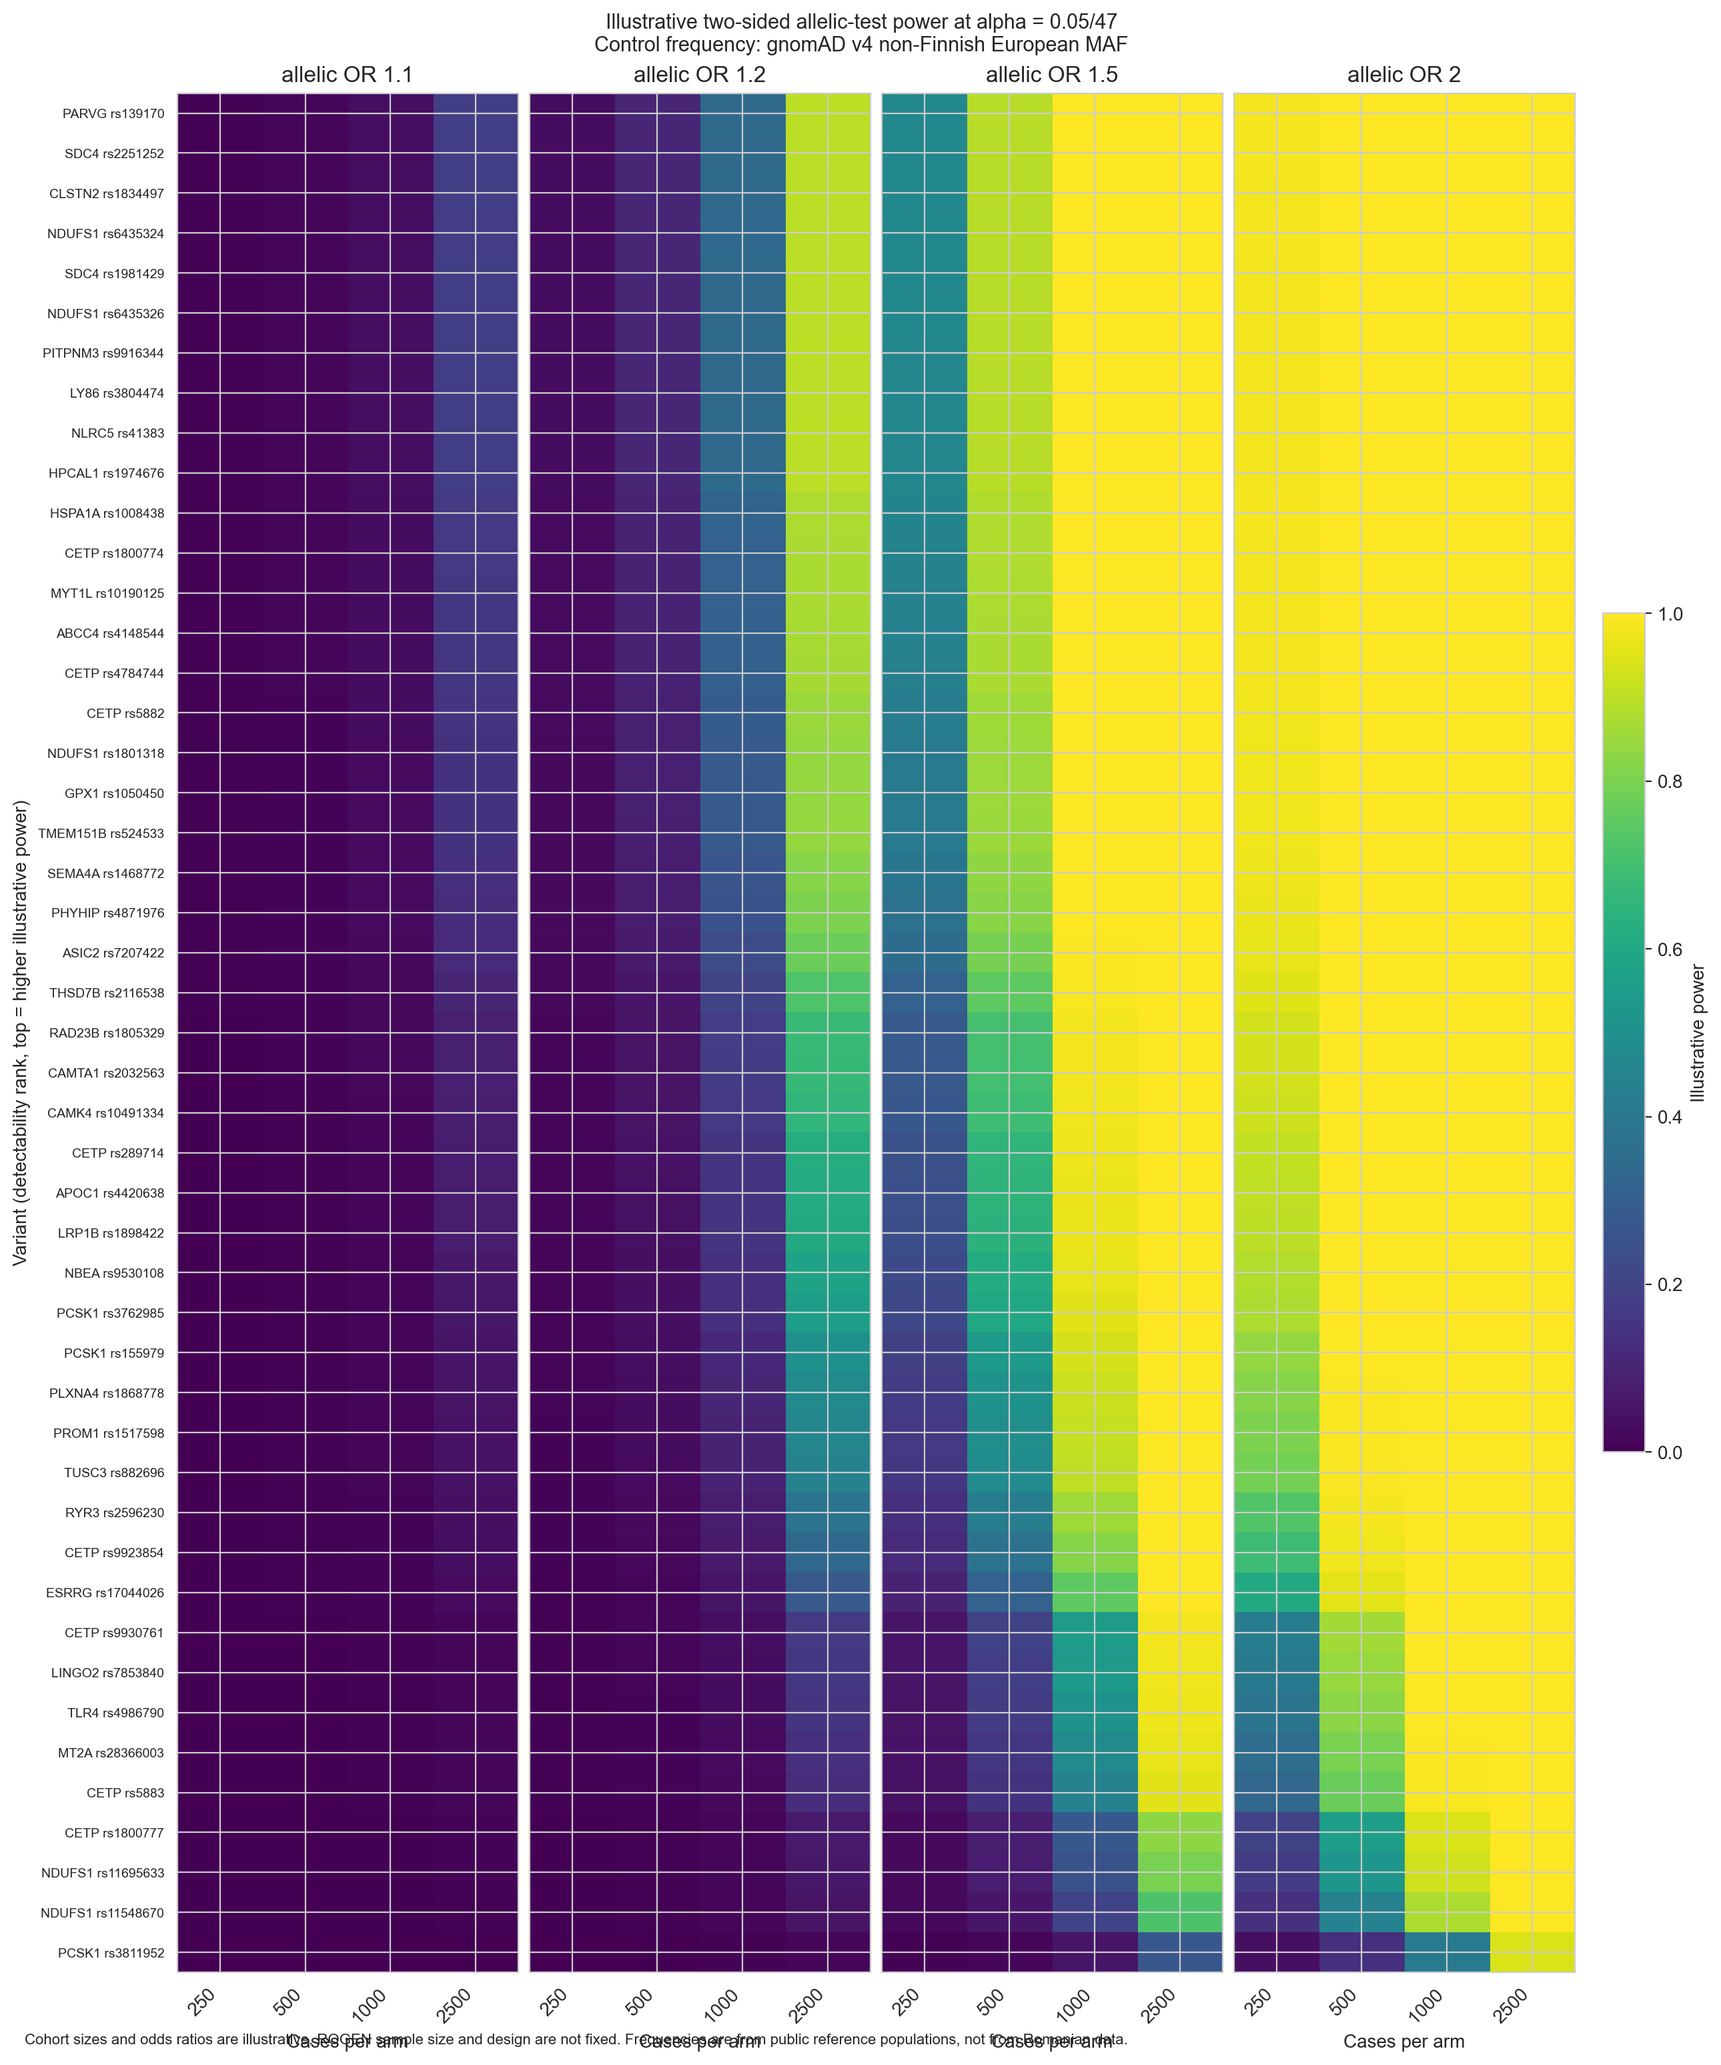
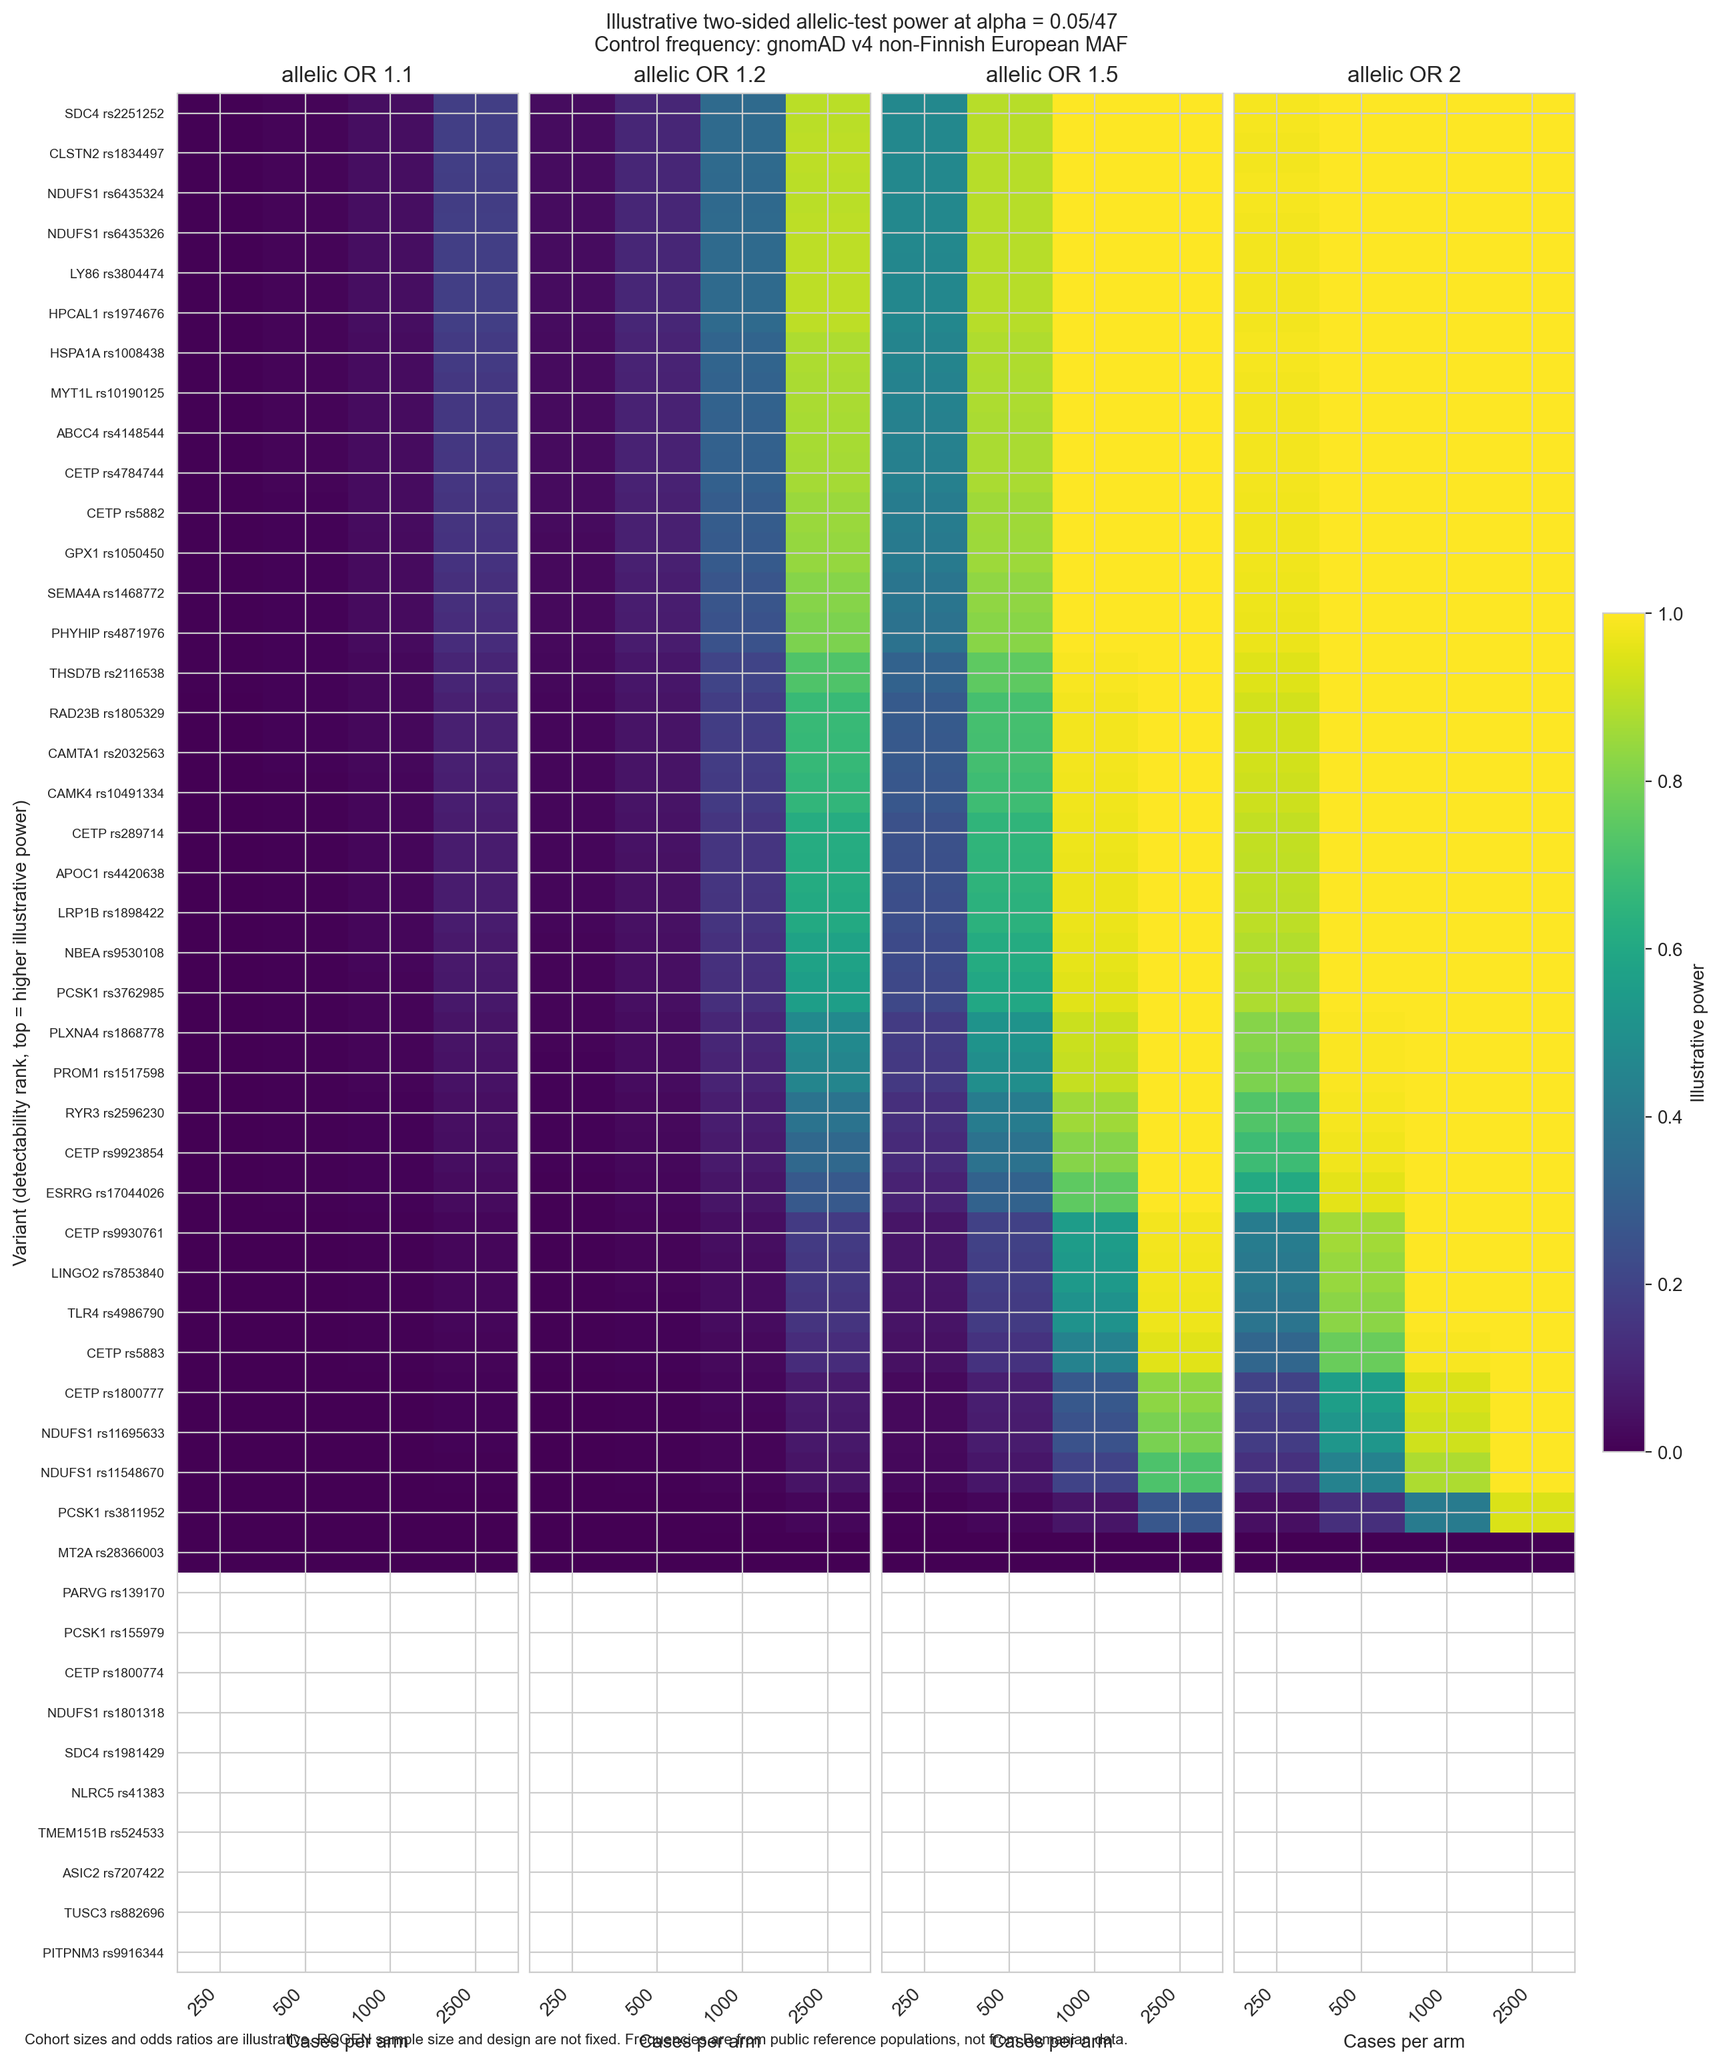
Exclude nine unresolved alleles from the TSI versus NFE test.
The panel keeps those rows with their existing notes and empty NFE-derived fields, recomputes Benjamini-Hochberg on the remaining 38 tests, and adds the manual-resolution worksheet.

diff --git a/scripts/panel/ro_longevity_panel_power.py b/scripts/panel/ro_longevity_panel_power.py
@@ -80,6 +80,7 @@ DEFAULT_VARIANTS = REPO_ROOT / "data" / "processed" / "variants_47_input.csv"
 DEFAULT_GENE_LIST = REPO_ROOT / "manuscript" / "tables" / "41_gene_candidate_list.csv"
 DEFAULT_GNOMAD_CACHE = REPO_ROOT / "data" / "geo" / "gnomad_r4_nfe_cache.json"
 DEFAULT_ENSEMBL_CACHE = REPO_ROOT / "data" / "geo" / "ensembl_r116_variation_cache"
+DEFAULT_MANUAL_RESOLUTION = REPO_ROOT / "data" / "processed" / "manual_resolution_alleles.csv"
 DEFAULT_OUT_DIR = REPO_ROOT / "analysis" / "panel"
 
 VARIANT_COLUMNS = ("chrom", "pos", "ref", "alt", "rsid", "gene_symbol")
@@ -99,14 +100,51 @@ def cache_variant_id_alt(variant_id: str) -> str:
     return parts[-1]
 
 
+def _repo_relative(path: Path) -> str:
+    """Path relative to the repo when it lives inside it."""
+    resolved = path.resolve()
+    root = REPO_ROOT.resolve()
+    try:
+        return resolved.relative_to(root).as_posix()
+    except ValueError:
+        return str(path)
+
+
+def load_manual_resolution_notes(path: Path) -> dict[str, str]:
+    """rsID to the note already recorded for alleles held out of the test."""
+    if not path.is_file():
+        return {}
+    frame = pl.read_csv(path, schema_overrides={"rsid": pl.Utf8, "note": pl.Utf8})
+    notes: dict[str, str] = {}
+    for row in frame.iter_rows(named=True):
+        rsid = normalize_rsid(str(row["rsid"]))
+        note = str(row.get("note") or "").strip()
+        if not rsid or not note:
+            continue
+        current = notes.get(rsid)
+        if current is None:
+            notes[rsid] = note
+        elif note not in current.split("; "):
+            notes[rsid] = _join_notes([current, note])
+    return notes
+
+
 def require_cache_alt_matches_panel(
     variants: pl.DataFrame,
     cache: dict[str, dict[str, Any]],
+    *,
+    excluded: set[str] | None = None,
 ) -> None:
-    """Stop when a cached gnomAD variant ID alt is not the panel alt."""
+    """Stop when a cached gnomAD variant ID alt is not the panel alt.
+
+    ``excluded`` rsIDs are held out of the NFE comparison and are not checked.
+    """
+    skipped = excluded or set()
     mismatches: list[str] = []
     for row in variants.iter_rows(named=True):
         rsid = normalize_rsid(str(row["rsid"]))
+        if rsid in skipped:
+            continue
         entry = cache.get(rsid)
         if not isinstance(entry, dict):
             continue
@@ -354,6 +392,8 @@ def ensure_nfe_allele_counts(
     variants: pl.DataFrame,
     cache_path: Path,
     cache: dict[str, dict[str, Any]],
+    *,
+    excluded: set[str] | None = None,
 ) -> dict[str, Any]:
     """Store NFE AC/AN on cache entries that lack them. Do not change ``af_gnomad_nfe``."""
     snapshot = {
@@ -361,8 +401,11 @@ def ensure_nfe_allele_counts(
     }
     missing: list[tuple[str, str]] = []
     dropped_mismatch = False
+    skipped = excluded or set()
     for row in variants.iter_rows(named=True):
         rsid = normalize_rsid(str(row["rsid"]))
+        if rsid in skipped:
+            continue
         entry = cache.get(rsid)
         if not isinstance(entry, dict):
             continue
@@ -438,7 +481,8 @@ def ensure_nfe_allele_counts(
     with_counts = sum(
         1
         for row in variants.iter_rows(named=True)
-        if nfe_counts_from_cache(cache.get(normalize_rsid(str(row["rsid"]))))[0] is not None
+        if normalize_rsid(str(row["rsid"])) not in skipped
+        and nfe_counts_from_cache(cache.get(normalize_rsid(str(row["rsid"]))))[0] is not None
     )
     return {
         "source": "cache fields ac_nfe and an_nfe for the cached gnomAD variant_id",
@@ -742,6 +786,8 @@ def build_panel_rows(
     classes: pl.DataFrame,
     gnomad_cache: dict[str, dict[str, Any]],
     ensembl_payloads: dict[str, Any | None],
+    *,
+    held_out_notes: dict[str, str] | None = None,
 ) -> list[dict[str, Any]]:
     """One row per prioritized variant. Missing frequencies stay empty."""
     class_by_gene = {
@@ -753,10 +799,13 @@ def build_panel_rows(
         rsid = normalize_rsid(str(variant["rsid"]))
         ref = str(variant["ref"])
         alt = str(variant["alt"])
+        held_note = None if held_out_notes is None else held_out_notes.get(rsid)
         notes: list[str] = []
-        cached = gnomad_cache.get(rsid)
+        cached = None if held_note is not None else gnomad_cache.get(rsid)
         af_nfe: float | None = None
-        if cached is None:
+        if held_note is not None:
+            af_nfe = None
+        elif cached is None:
             notes.append(
                 "gnomAD v4 NFE cache has no entry; frequency left empty and gnomAD was not re-queried"
             )
@@ -820,7 +869,10 @@ def build_panel_rows(
 
         tsi_gap: float | None = None
         tsi_flag: bool | None = None
-        if maf_sub["TSI"] is None or maf_nfe is None:
+        if held_note is not None:
+            af_nfe = None
+            maf_nfe = None
+        elif maf_sub["TSI"] is None or maf_nfe is None:
             notes.append(
                 "Descriptive TSI versus NFE MAF gap left empty because one frequency is missing. "
                 "This gap is not a test."
@@ -830,15 +882,19 @@ def build_panel_rows(
             tsi_flag = abs(tsi_gap) > TSI_NFE_MAF_GAP
 
         af_tsi = af_alt["TSI"]
-        tsi_ac, tsi_an, tsi_an_source = tsi_alt_allele_counts(populations, ref, alt)
-        nfe_ac, nfe_an = nfe_counts_from_cache(cached if isinstance(cached, dict) else None)
-        p_value, count_test = allele_count_test(tsi_ac, tsi_an, nfe_ac, nfe_an)
+        if held_note is not None:
+            p_value, count_test = None, None
+            tsi_an_source = "held_out"
+        else:
+            tsi_ac, tsi_an, tsi_an_source = tsi_alt_allele_counts(populations, ref, alt)
+            nfe_ac, nfe_an = nfe_counts_from_cache(cached if isinstance(cached, dict) else None)
+            p_value, count_test = allele_count_test(tsi_ac, tsi_an, nfe_ac, nfe_an)
         if tsi_an_source == "assumed_2x_sample_size":
             notes.append(
                 "TSI allele number was not returned by Ensembl; "
                 f"used 2 x {TSI_PHASE3_N_SAMPLES} (1000 Genomes phase 3 TSI sample size)"
             )
-        if p_value is None:
+        if held_note is None and p_value is None:
             if nfe_ac is None or nfe_an is None:
                 notes.append(
                     "TSI versus NFE allele-count test left empty; "
@@ -859,8 +915,14 @@ def build_panel_rows(
             )
 
         rare_flag: bool | None = None if maf_nfe is None else maf_nfe < RARE_MAF
-        reference_power = allelic_power(maf_nfe, RANK_ODDS_RATIO, RANK_N_CASES, ALPHA_BONFERRONI)
-        if maf_nfe is None:
+        reference_power = (
+            None
+            if held_note is not None
+            else allelic_power(maf_nfe, RANK_ODDS_RATIO, RANK_N_CASES, ALPHA_BONFERRONI)
+        )
+        if held_note is not None:
+            notes = [held_note]
+        elif maf_nfe is None:
             notes.append(
                 "illustrative power left empty because gnomAD v4 NFE MAF is missing; "
                 "control frequency was not imputed"
@@ -1073,11 +1135,11 @@ def release_check_argv(table: Path, report: Path) -> list[str]:
         "run",
         "rogen-release-check",
         "--table",
-        str(table),
+        _repo_relative(table),
         "--table-kind",
         RELEASE_CHECK_KIND,
         "--report",
-        str(report),
+        _repo_relative(report),
     ]
 
 
@@ -1086,9 +1148,9 @@ def run_release_check(path: Path, report: Path) -> dict[str, Any]:
     argv = release_check_argv(path, report)
     if shutil.which("uv") is None:
         return {
-            "path": str(path),
+            "path": _repo_relative(path),
             "kind": RELEASE_CHECK_KIND,
-            "report": str(report),
+            "report": _repo_relative(report),
             "argv": argv,
             "returncode": None,
             "stdout": "",
@@ -1110,9 +1172,9 @@ def run_release_check(path: Path, report: Path) -> dict[str, Any]:
     ):
         status = "command_not_found"
     return {
-        "path": str(path),
+        "path": _repo_relative(path),
         "kind": RELEASE_CHECK_KIND,
-        "report": str(report),
+        "report": _repo_relative(report),
         "argv": argv,
         "returncode": completed.returncode,
         "stdout": completed.stdout,
@@ -1136,15 +1198,16 @@ def write_provenance(
     variants_path: Path,
     gene_list_path: Path,
     release_checks: list[dict[str, Any]],
+    held_out_notes: dict[str, str],
 ) -> None:
     """Record data sources, cache use, and the release-check result."""
     payload = {
         "generated_at_utc": started_at,
         "disclaimer": DISCLAIMER,
-        "input_variants": {"path": str(variants_path), "n_rows": EXPECTED_VARIANT_ROWS},
+        "input_variants": {"path": _repo_relative(variants_path), "n_rows": EXPECTED_VARIANT_ROWS},
         "longevitymap_annotation": {
             "database": "LongevityMap",
-            "table": str(gene_list_path),
+            "table": _repo_relative(gene_list_path),
             "join": "gene_symbol to Gene_Symbol",
             "queried_live": False,
             "role": "gene-level class annotation only",
@@ -1154,7 +1217,7 @@ def write_provenance(
             "dataset": GNOMAD_DATASET,
             "population": GNOMAD_POPULATION,
             "api": GNOMAD_API_URL,
-            "cache_path": str(gnomad_cache),
+            "cache_path": _repo_relative(gnomad_cache),
             "cache_hits": gnomad_counts["cache_hits"],
             "new_queries": gnomad_counts["new_queries"],
             "absent_from_cache": gnomad_counts["absent_from_cache"],
@@ -1163,6 +1226,11 @@ def write_provenance(
             "allele_counts": nfe_allele_counts,
         },
         "tsi_vs_nfe": tsi_vs_nfe,
+        "unresolved_alleles_excluded_from_nfe_test": {
+            "file": _repo_relative(DEFAULT_MANUAL_RESOLUTION),
+            "rsids": sorted(held_out_notes),
+            "notes": {rsid: held_out_notes[rsid] for rsid in sorted(held_out_notes)},
+        },
         "ensembl": {
             "release": ensembl_release,
             "assembly": ENSEMBL_ASSEMBLY,
@@ -1170,7 +1238,7 @@ def write_provenance(
             "info_data": "GET /info/data",
             "endpoint": "GET /variation/human/{id}?pops=1",
             "populations": [f"1000GENOMES:phase_3:{code}" for code in EUR_SUBPOPS],
-            "cache_path": str(ensembl_cache),
+            "cache_path": _repo_relative(ensembl_cache),
             "cache_hits": ensembl_counts["cache_hits"],
             "new_queries": ensembl_counts["new_queries"],
             "request_failures": ensembl_counts["request_failures"],
@@ -1231,13 +1299,23 @@ def main(
     variant_frame = load_variants(variants)
     classes = load_longevitymap_classes(gene_list)
     gnomad_cache_map, gnomad_counts = fetch_nfe_frequencies(variant_frame, gnomad_cache)
-    require_cache_alt_matches_panel(variant_frame, gnomad_cache_map)
-    nfe_allele_counts = ensure_nfe_allele_counts(variant_frame, gnomad_cache, gnomad_cache_map)
+    held_out_notes = load_manual_resolution_notes(DEFAULT_MANUAL_RESOLUTION)
+    held_out = set(held_out_notes)
+    require_cache_alt_matches_panel(variant_frame, gnomad_cache_map, excluded=held_out)
+    nfe_allele_counts = ensure_nfe_allele_counts(
+        variant_frame, gnomad_cache, gnomad_cache_map, excluded=held_out
+    )
     rsids = [normalize_rsid(str(rsid)) for rsid in variant_frame["rsid"].to_list()]
     ensembl_payloads, ensembl_counts, ensembl_release, ensembl_host = fetch_ensembl_variations(
         rsids, ensembl_cache
     )
-    rows = build_panel_rows(variant_frame, classes, gnomad_cache_map, ensembl_payloads)
+    rows = build_panel_rows(
+        variant_frame,
+        classes,
+        gnomad_cache_map,
+        ensembl_payloads,
+        held_out_notes=held_out_notes,
+    )
     tsi_vs_nfe = apply_tsi_nfe_fdr(rows)
     rows = assign_testability_rank(rows)
     panel = panel_frame(rows)
@@ -1269,6 +1347,7 @@ def main(
         variants_path=variants,
         gene_list_path=gene_list,
         release_checks=release_checks,
+        held_out_notes=held_out_notes,
     )
     typer.echo(f"Wrote {panel_path}")
     typer.echo(f"Wrote {grid_path}")

diff --git a/tests/test_ro_longevity_panel_power.py b/tests/test_ro_longevity_panel_power.py
@@ -90,6 +90,21 @@ def test_cache_alt_match_does_not_stop() -> None:
     panel.require_cache_alt_matches_panel(variants, cache)
 
 
+def test_excluded_cache_alt_mismatch_does_not_stop() -> None:
+    variants = pl.DataFrame(
+        {
+            "chrom": ["17"],
+            "pos": [6494893],
+            "ref": ["C"],
+            "alt": ["A"],
+            "rsid": ["rs9916344"],
+            "gene_symbol": ["GENE"],
+        }
+    )
+    cache = {"rs9916344": {"variant_id": "17-6494893-C-T"}}
+    panel.require_cache_alt_matches_panel(variants, cache, excluded={"rs9916344"})
+
+
 def test_maf_is_the_smaller_allele_frequency() -> None:
     assert panel.maf_from_af(0.2) == pytest.approx(0.2)
     assert panel.maf_from_af(0.8) == pytest.approx(0.2)
